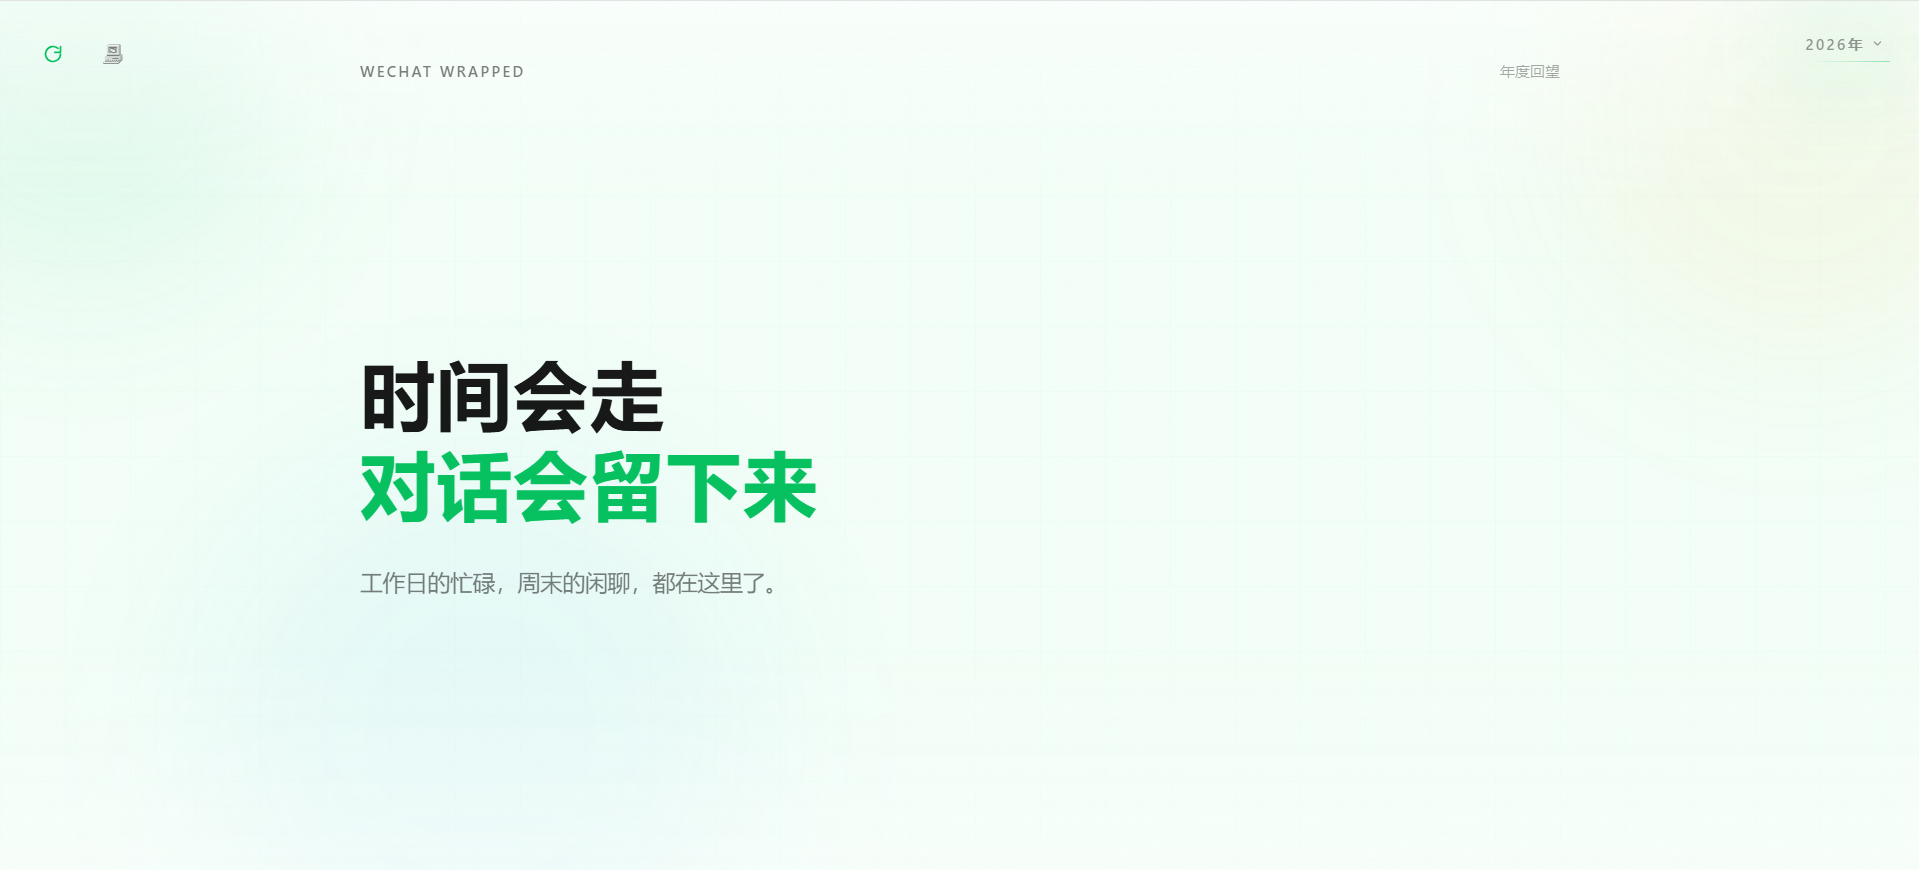
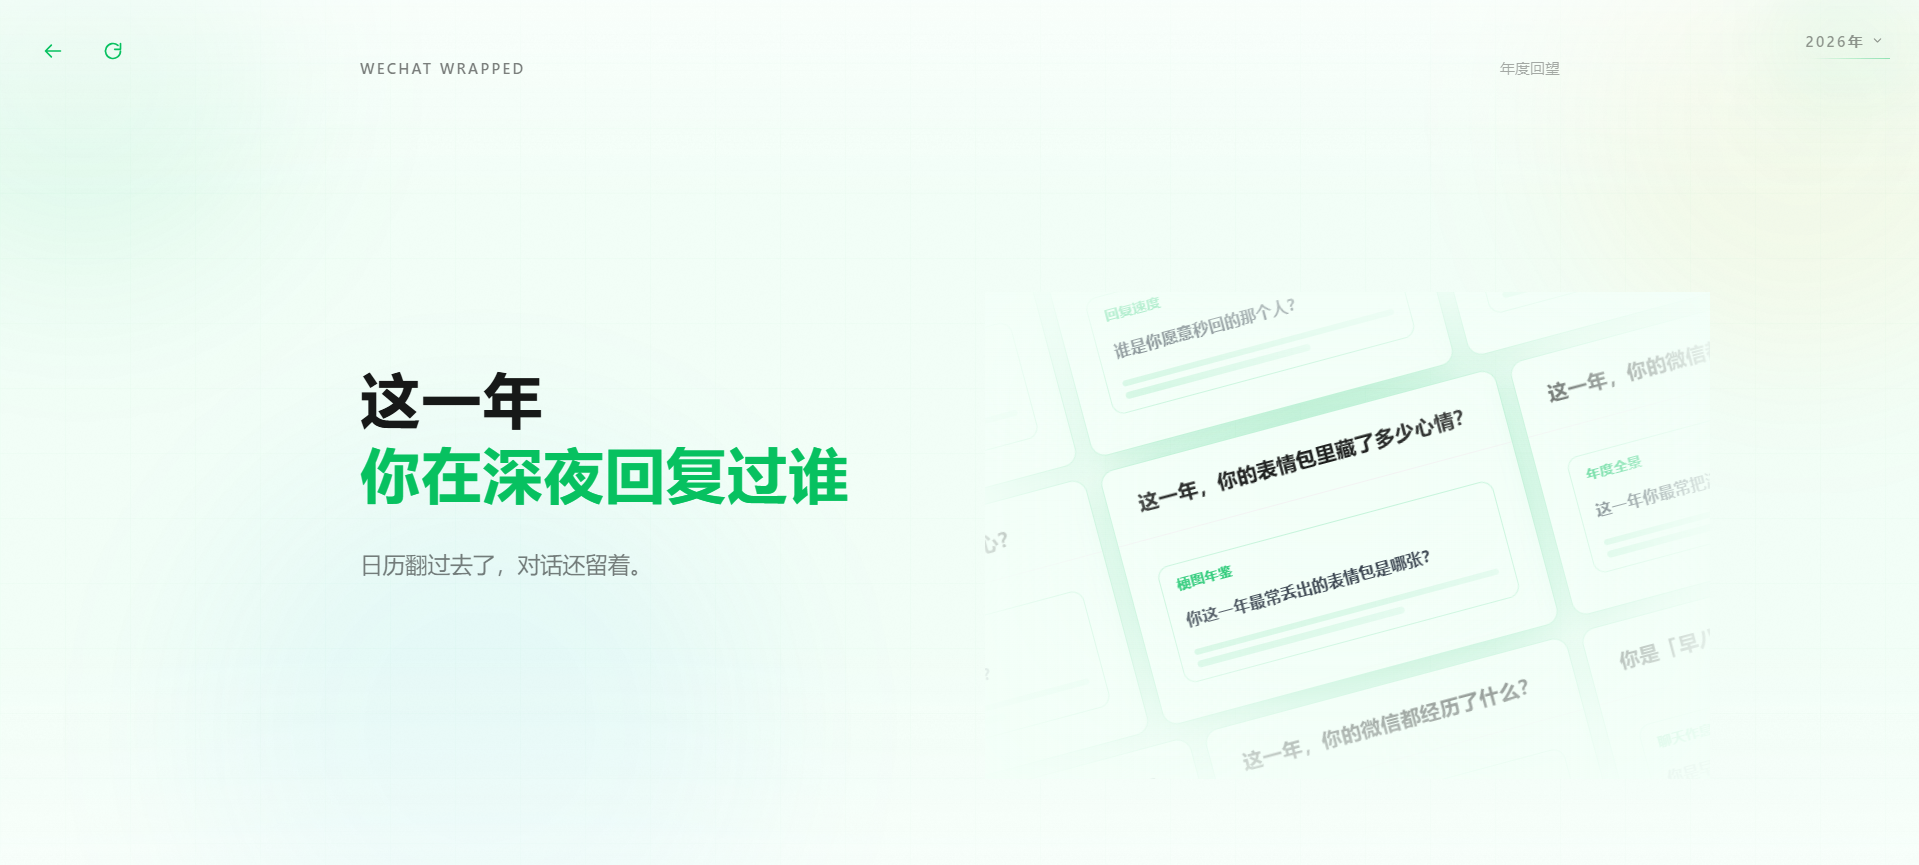
docs: 更新 README 年度总结预览图（Modern）
- 调整年度总结展示文案与排版

- 更新 style1.png，移除旧的 style2.png/style3.png

diff --git a/README.md b/README.md
@@ -65,18 +65,13 @@
 
 ## 年度总结
 
-年度总结目前只保留「现代（Modern）」风格。如果你对年度总结有更好的修改建议，欢迎到 Issue 区反馈：https://github.com/LifeArchiveProject/WeChatDataAnalysis/issues
-
 > ⚠️ **提醒**：年度总结目前还不是最终版本，后续还会增加新总结或新内容。
 
 也欢迎加入下方 QQ 群一起讨论。
 
 <table>
   <tr>
-    <td align="center"><b>Modern</b></td>
-  </tr>
-  <tr>
-    <td align="center"><img src="frontend/public/style1.png" alt="年度总结 Modern" width="400"/></td>
+    <td align="center"><img src="frontend/public/style1.png" alt="年度总结 Modern"/></td>
   </tr>
 </table>
 